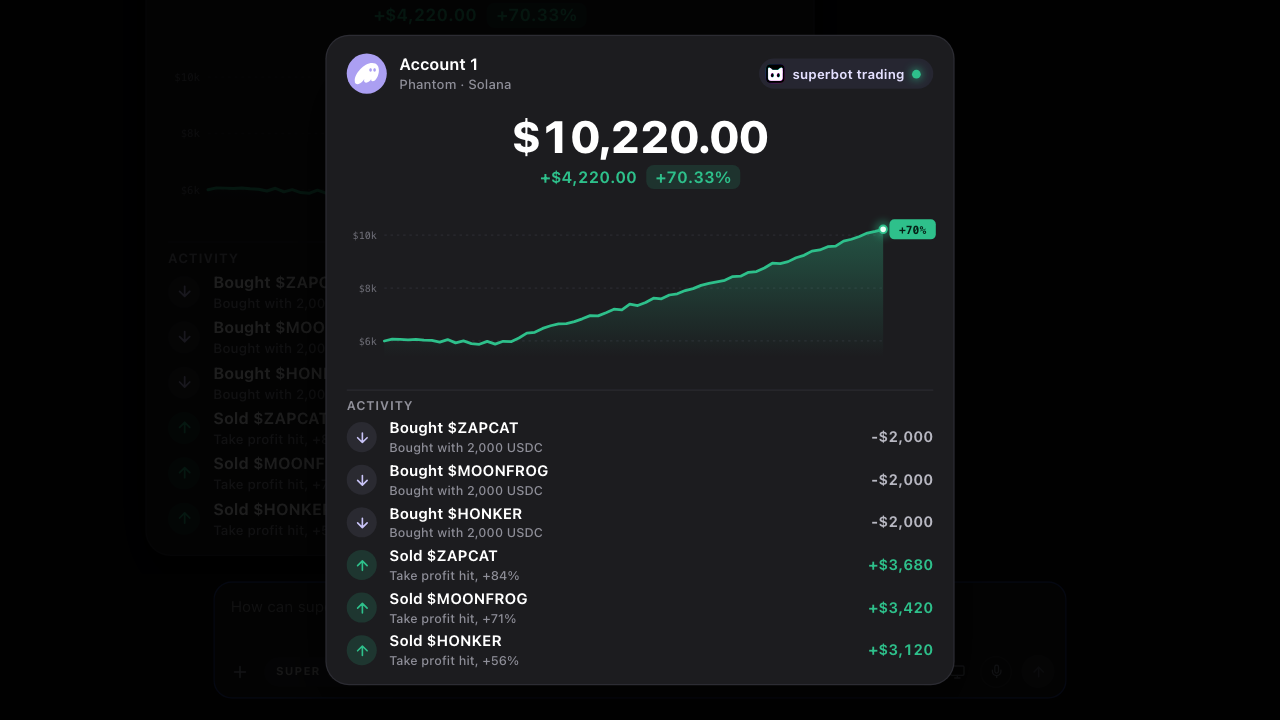
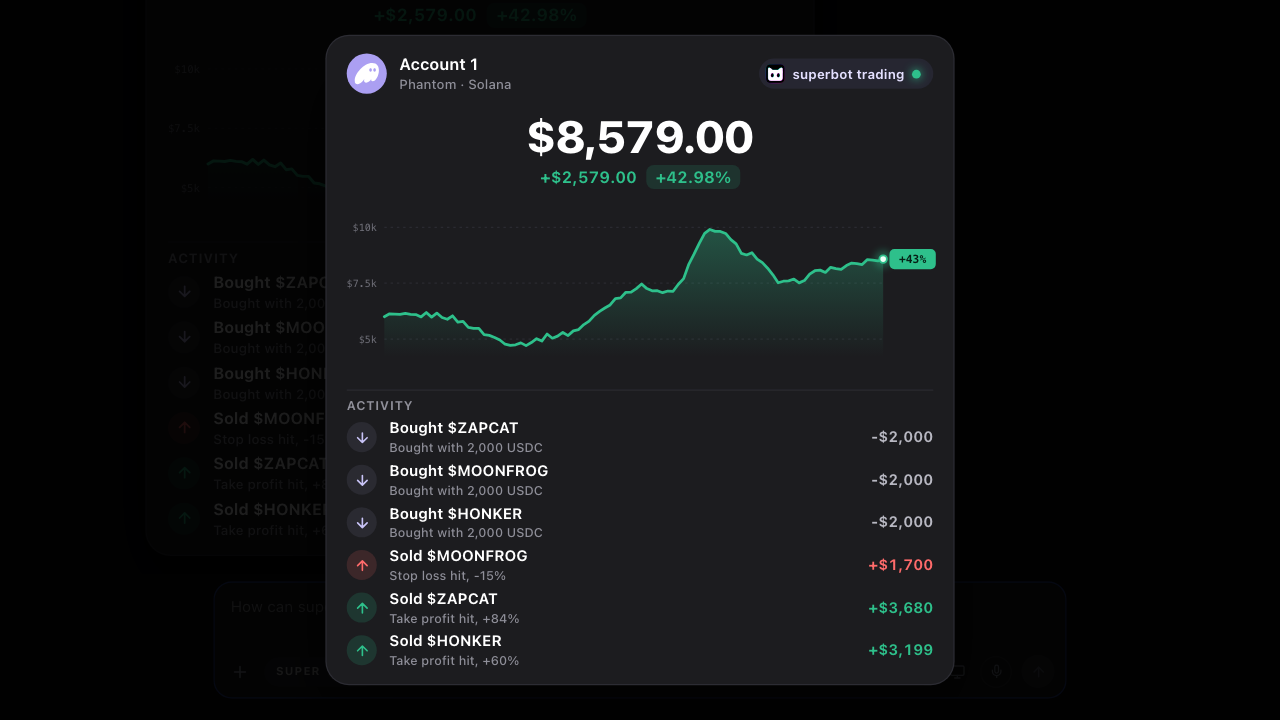
chatgpt-memebot-phantom-superbot-293fef02: volatile wallet chart (loss, climb, spike, drop) closing at $8,579; stop-loss row, +43% tag

diff --git a/animations/chatgpt-memebot-phantom-superbot-293fef02/scenes/tabs-assets/beats/trade.js b/animations/chatgpt-memebot-phantom-superbot-293fef02/scenes/tabs-assets/beats/trade.js
@@ -1,39 +1,44 @@
 // Ask 2's answer ("Look's good, let's do it"): superbot trades live inside the user's Phantom wallet. The wallet
-// opens in the thread, then zooms out of it to fill the frame while the balance climbs from $6,000 to $10,220,
-// the chart draws up and the activity feed logs the three buys and three take-profit sells.
+// opens in the thread, then zooms out of it to fill the frame while the balance swings from $6,000 down, back up,
+// spikes, pulls back and settles at $8,579; the activity feed logs the three buys, one stop-loss and two take-profits.
 // Two copies are built from the same markup: the one in the thread and the full-frame one in the scene root
 // (outside the scaled hub); both are driven by the same clock, so the handoff between them is invisible.
 import { lerp, seg, outCubic, inOutCubic, rand, streamCount } from '../../../lib.js';
 import { equityChart, fmt } from './wk.js';
 
-const START = 6000, END = 10220;
-const N = 64;
-// the balance: flat while the buys fill, a shallow dip, then the climb with the sells stepping it up
+const START = 6000, END = 8579;
+const N = 96;
+// the balance's shape, as [x, $] keys: the buys fill, a semi big loss (-20%), the climb, the spike, the drop, and
+// a close at END; smoothstep between keys plus jagged noise so it reads like a live memecoin wallet
+const KEYS = [[0, 6000], [0.1, 6080], [0.27, 4790], [0.35, 5180], [0.52, 7350], [0.57, 7050], [0.66, 9920], [0.73, 8850], [0.8, 7480], [0.9, 8150], [1, END]];
 const BAL = Array.from({ length: N }, (_, i) => {
   const x = i / (N - 1);
-  const climb = (END - START) * Math.pow(seg(x, 0.16, 1), 1.25);
-  const dip = -260 * Math.exp(-Math.pow((x - 0.24) / 0.06, 2));
-  const n = i === 0 || i === N - 1 ? 0 : (rand(i + 5) - 0.5) * 140;
-  return +(START + climb + dip + n).toFixed(2);
+  const j = Math.max(0, KEYS.findIndex(([kx]) => kx >= x) - 1);
+  const [x0, v0] = KEYS[j], [x1, v1] = KEYS[j + 1];
+  const u = seg(x, x0, x1), e = u * u * (3 - 2 * u);
+  const n = i === 0 || i === N - 1 ? 0 : (rand(i + 5) - 0.5) * 260;
+  return +(lerp(v0, v1, e) + n).toFixed(2);
 });
 
 const FEED = [
-  { at: 0.04, side: 'buy', tk: '$ZAPCAT', sub: 'Bought with 2,000 USDC', amt: '-$2,000' },
-  { at: 0.10, side: 'buy', tk: '$MOONFROG', sub: 'Bought with 2,000 USDC', amt: '-$2,000' },
-  { at: 0.16, side: 'buy', tk: '$HONKER', sub: 'Bought with 2,000 USDC', amt: '-$2,000' },
-  { at: 0.50, side: 'sell', tk: '$ZAPCAT', sub: 'Take profit hit, +84%', amt: '+$3,680' },
-  { at: 0.72, side: 'sell', tk: '$MOONFROG', sub: 'Take profit hit, +71%', amt: '+$3,420' },
-  { at: 0.92, side: 'sell', tk: '$HONKER', sub: 'Take profit hit, +56%', amt: '+$3,120' },
+  // proceeds add up to END: 1,700 + 3,680 + 3,199
+  { at: 0.03, side: 'buy', tk: '$ZAPCAT', sub: 'Bought with 2,000 USDC', amt: '-$2,000' },
+  { at: 0.07, side: 'buy', tk: '$MOONFROG', sub: 'Bought with 2,000 USDC', amt: '-$2,000' },
+  { at: 0.11, side: 'buy', tk: '$HONKER', sub: 'Bought with 2,000 USDC', amt: '-$2,000' },
+  { at: 0.26, side: 'sell loss', tk: '$MOONFROG', sub: 'Stop loss hit, -15%', amt: '+$1,700' },
+  { at: 0.66, side: 'sell', tk: '$ZAPCAT', sub: 'Take profit hit, +84%', amt: '+$3,680' },
+  { at: 0.95, side: 'sell', tk: '$HONKER', sub: 'Take profit hit, +60%', amt: '+$3,199' },
 ];
 const SAY = 'Trading now, inside your Phantom wallet.';
 const ARROW = { buy: '<svg viewBox="0 0 24 24"><path d="M12 5v14M5 12l7 7 7-7"/></svg>', sell: '<svg viewBox="0 0 24 24"><path d="M12 19V5M5 12l7-7 7 7"/></svg>' };
+const verb = (side) => (side === 'buy' ? 'Bought' : 'Sold');
 
 function times(r) {
   const T = { r, card: r + 0.25 };
   T.live = T.card + 0.45;
   T.zoom = T.live + 0.35;
   T.zoomEnd = T.zoom + 0.9;
-  T.tradeEnd = T.live + 3.6;
+  T.tradeEnd = T.live + 4.4; // long enough for every swing to read
   T.end = T.tradeEnd + 1.3;
   return T;
 }
@@ -46,15 +51,15 @@ function walletHtml(x, chartHtml, cls) {
     <div class="ph-bal"><b class="ph-num">$6,000.00</b><div class="ph-chg"><span class="ph-d">+$0.00</span><span class="ph-p">+0.00%</span></div></div>
     <div class="ph-chart">${chartHtml}</div>
     <div class="ph-feed-h">Activity</div>
-    <div class="ph-feed">${FEED.map((f) => `<div class="ph-row ${f.side}"><span class="ph-ic">${ARROW[f.side]}</span>
-      <span class="ph-rt"><b>${f.side === 'buy' ? 'Bought' : 'Sold'} ${f.tk}</b><small>${f.sub}</small></span><em class="ph-amt">${f.amt}</em></div>`).join('')}</div>
+    <div class="ph-feed">${FEED.map((f) => `<div class="ph-row ${f.side}"><span class="ph-ic">${ARROW[f.side.split(' ')[0]]}</span>
+      <span class="ph-rt"><b>${verb(f.side)} ${f.tk}</b><small>${f.sub}</small></span><em class="ph-amt">${f.amt}</em></div>`).join('')}</div>
   </div>`;
 }
 
 function build(k, x) {
   const T = k.T;
   const mk = (cls) => {
-    const chart = equityChart({ W: 476, H: 140, series: [{ v: BAL, cls: 'eq-s', tag: '+70%' }], lo: 5400, hi: 10800, ticks: [6000, 8000, 10000], R: 44, yfmt: (v) => `$${v / 1000}k` });
+    const chart = equityChart({ W: 476, H: 140, series: [{ v: BAL, cls: 'eq-s', tag: '+43%' }], lo: 4200, hi: 10600, ticks: [5000, 7500, 10000], R: 44, yfmt: (v) => `$${v / 1000}k` });
     const win = x.el(walletHtml(x, chart.html, cls));
     return { win, chart, svg: win.querySelector('svg.eq'), num: win.querySelector('.ph-num'), d: win.querySelector('.ph-d'), p: win.querySelector('.ph-p'), rows: [...win.querySelectorAll('.ph-row')], last: '' };
   };

diff --git a/animations/chatgpt-memebot-phantom-superbot-293fef02/index.html b/animations/chatgpt-memebot-phantom-superbot-293fef02/index.html
@@ -16,7 +16,7 @@
 <link rel="stylesheet" href="scenes/tabs-assets/chat.css?v=1">
 <link rel="stylesheet" href="scenes/tabs-assets/ask.css?v=1">
 <link rel="stylesheet" href="scenes/tabs-assets/degen.css?v=1">
-<link rel="stylesheet" href="scenes/tabs-assets/memebot.css?v=1">
+<link rel="stylesheet" href="scenes/tabs-assets/memebot.css?v=2">
 <!-- scenes/<id>.css are linked by timeline.js, one per scene module -->
 <link rel="modulepreload" href="lib.js">
 <link rel="modulepreload" href="shell.js">
@@ -33,6 +33,6 @@
 
 <script src="../../assets/sb-mark-live.js"></script>
 <script src="recorder.js"></script>
-<script type="module" src="timeline.js?v=1"></script>
+<script type="module" src="timeline.js?v=2"></script>
 </body>
 </html>

diff --git a/animations/chatgpt-memebot-phantom-superbot-293fef02/scenes/tabs-assets/memebot.css b/animations/chatgpt-memebot-phantom-superbot-293fef02/scenes/tabs-assets/memebot.css
@@ -69,6 +69,9 @@
 #s-tabs .ph-rt small { font: 500 10px/1 var(--ui); color: #8f8f99; }
 #s-tabs .ph-amt { margin-left: auto; font: 650 12px/1 var(--ui); font-style: normal; color: #b8b8c2; font-variant-numeric: tabular-nums; }
 #s-tabs .ph-row.sell .ph-amt { color: #2ec08b; }
+#s-tabs .ph-row.loss .ph-ic { background: rgba(255,107,107,.14); }
+#s-tabs .ph-row.loss .ph-ic svg { stroke: #ff6b6b; }
+#s-tabs .ph-row.loss .ph-amt { color: #ff6b6b; }
 
 /* the wallet's chart: degen.css scopes its chart rules to .hub, the full-frame copy lives outside it */
 #s-tabs .ph-win svg.eq { display: block; width: 100%; height: auto; overflow: visible; }

diff --git a/animations/chatgpt-memebot-phantom-superbot-293fef02/scenes/tabs.js b/animations/chatgpt-memebot-phantom-superbot-293fef02/scenes/tabs.js
@@ -6,7 +6,7 @@
 // frame). render(lt) is a pure function of local time. The scene keeps the id "tabs" so the hub's generated
 // stylesheets (scoped under #s-tabs) apply unchanged.
 import { hubMarkup } from './tabs-assets/hub-markup.js';
-import { mountChat, renderChat, BEATS, CHAT_T0, CHAT_END } from './tabs-assets/chat.js?v=2';
+import { mountChat, renderChat, BEATS, CHAT_T0, CHAT_END } from './tabs-assets/chat.js?v=3';
 import { lerp, seg, outCubic, inOutCubic } from '../lib.js';
 
 const asset = (f) => new URL('./tabs-assets/' + f, import.meta.url).href;

diff --git a/animations/chatgpt-memebot-phantom-superbot-293fef02/timeline.js b/animations/chatgpt-memebot-phantom-superbot-293fef02/timeline.js
@@ -137,7 +137,7 @@ await Promise.all(sceneIds.map(async (id) => {
   css.rel = 'stylesheet'; css.href = new URL(`./scenes/${id}.css?v=1`, import.meta.url).href;
   document.head.appendChild(css);
   try {
-    const m = (await import(`./scenes/${id}.js?v=1`)).default;
+    const m = (await import(`./scenes/${id}.js?v=2`)).default;
     if (!m || typeof m.render !== 'function') throw new Error(`scenes/${id}.js has no default { dur, mount, render } export`);
     MODS[id] = m;
   } catch (err) {

diff --git a/animations/chatgpt-memebot-phantom-superbot-293fef02/scenes/tabs-assets/chat.js b/animations/chatgpt-memebot-phantom-superbot-293fef02/scenes/tabs-assets/chat.js
@@ -6,7 +6,7 @@
 // of the scene's local time. ?v= on the beat imports busts GitHub Pages' 10-minute module cache on republish.
 import { clamp, lerp, seg, outCubic, outBack, inOutCubic, esc, boxIn } from '../../lib.js';
 import memebot from './beats/memebot.js?v=1';
-import trade from './beats/trade.js?v=1';
+import trade from './beats/trade.js?v=2';
 
 const img = (f) => new URL('../../img/' + f, import.meta.url).href;
 const brand = (f) => new URL('../../brand/' + f, import.meta.url).href;
